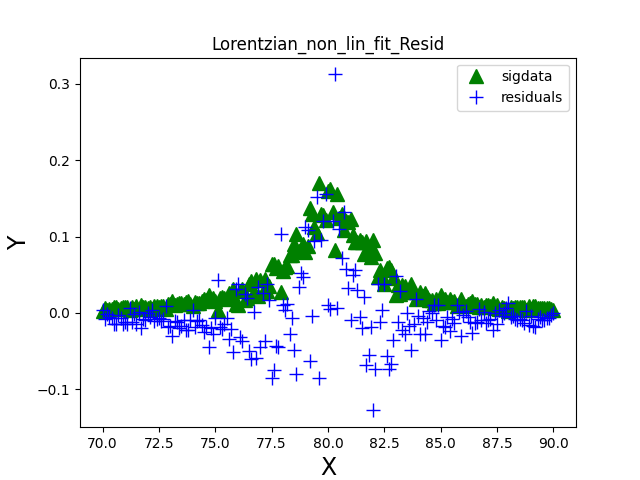
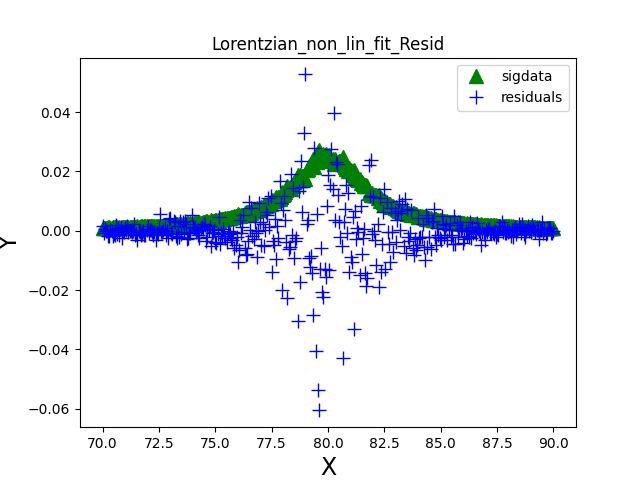
Tried to figure out a way to get LM Fit to work without estimate of measurement errors. I couldn't. You need to have some form of error estimate for the measured data. This will have to be factored into future use.

diff --git a/Statistics/Test_Routines.cpp b/Statistics/Test_Routines.cpp
@@ -1616,18 +1616,18 @@ void testing::Lorentzian_data_fit()
 	long idum = (-1011);
 	double spread, xlow, xhigh, deltax, xpos, yval;
 
-	xlow = 70.0; xhigh = 90.0; deltax = 0.1;
+	xlow = 70.0; xhigh = 90.0; deltax = 0.05;
 	npts = (int)(1.0 + ((xhigh - xlow) / deltax));
 
 	std::vector<double> xdata(npts, 0.0);
 	std::vector<double> ydata(npts, 0.0);
 	std::vector<double> sigdata(npts, 0.0);
 
-	spread = 0.25; // variance of the noise being added to the signal
+	spread = 0.05; // variance of the noise being added to the signal
 	xpos = xlow;
 	for (int i = 0; i < npts; i++) {
 
-		Lorentzian(xpos, a, &yval, dyda, npars); // evaluate the diode-voltage function
+		Lorentzian(xpos, a, &yval, dyda, npars); // evaluate the Lorentzian function
 
 		xdata[i] = xpos;
 
@@ -1636,7 +1636,8 @@ void testing::Lorentzian_data_fit()
 		ydata[i] = yval;
 
 		sigdata[i] = fabs(yval) > 0.0 ? spread * yval : spread; // sigdata cannot have zero values
-		//sigdata[i] = 0.01; // sigdata cannot have zero values
+		//sigdata[i] = spread/100.0; // sigdata cannot have zero values
+		//sigdata[i] = 1.0; // sigdata cannot have zero values
 
 		xpos += deltax;
 	}
@@ -1672,8 +1673,8 @@ void testing::Lorentzian_data_fit()
 	std::vector<int> ia(npars, 1); // tell the algorithm that you want to locate all parameters 
 
 	//ia[0] = 0; // search for params 0 and 2, fix param 1 value
-	a_guess[0] = xc; a_guess[1] = -4.0; // initial guesses for the parameters, fit routine is sufficiently robust
-	//a_guess[0] = xc; a_guess[1] = 1.0 / Lmax; // initial guesses for the parameters
+	//a_guess[0] = xc; a_guess[1] = 4.0; // initial guesses for the parameters, fit routine is sufficiently robust
+	a_guess[0] = xc; a_guess[1] = 1.0 / Lmax; // initial guesses for the parameters
 
 	// run the fitting algorithm
 	fit::non_lin_fit(xdata, ydata, sigdata, npts, a_guess, ia, npars, covar, alpha, &chisq, Lorentzian, ITMAX, TOL, true);

diff --git a/Statistics/FittingFunctions.cpp b/Statistics/FittingFunctions.cpp
@@ -246,6 +246,8 @@ void fit::non_lin_fit(std::vector<double> &x, std::vector<double> &y, std::vecto
 	// sig cannot contain any zeroes, all elements must be strictly non-zero!
 	// R. Sheehan 19 - 10 - 2021
 
+	// What can you do if you do not know the measurement error \sigma? 
+
 	try {
 		bool c1 = ndata > 3 ? true : false;
 		bool c2 = (int)(x.size()) == ndata ? true : false;
@@ -544,13 +546,17 @@ void fit::mrqcof(std::vector<double> &x, std::vector<double> &y, std::vector<dou
 				}
 
 				*chisq += template_funcs::DSQR(dy)*sig2i; // find chi^{2}
+				//*chisq += template_funcs::DSQR(dy); // find chi^{2}
 			}
 
 			// fill the symmetric side
 			for (j = 1; j < mfit; j++)
 				for (k = 0; k<j; k++) alpha[k][j] = alpha[j][k];
 
-			//lin_alg::array_2d_print(alpha); 
+			/*vecut::array_2d_print(alpha);
+			std::cout << "\n"; 
+			vecut::print_vec(beta); 
+			std::cout << "\n";*/
 
 			dyda.clear();
 		}

diff --git a/Statistics/Plots.py b/Statistics/Plots.py
@@ -82,7 +82,7 @@ if __name__ == '__main__':
     print(pwd)
     
     #filename = "Gauss_non_lin_fit.txt"
-    #filename = 'Lorentzian_non_lin_fit.txt'
-    filename = 'Diode_non_lin_fit.txt'
+    filename = 'Lorentzian_non_lin_fit.txt'
+    #filename = 'Diode_non_lin_fit.txt'
     non_lin_fit_plot(filename)
     

diff --git a/Statistics/Main.cpp b/Statistics/Main.cpp
@@ -92,9 +92,9 @@ int main()
 
 	//testing::monte_carlo_test(); 
 
-	testing::diode_voltage_data_fit(); 
+	//testing::diode_voltage_data_fit(); 
 
-	//testing::Lorentzian_data_fit(); 
+	testing::Lorentzian_data_fit(); 
 	
 	std::cout<<"Press enter to close console\n";
 	std::cin.get(); 
